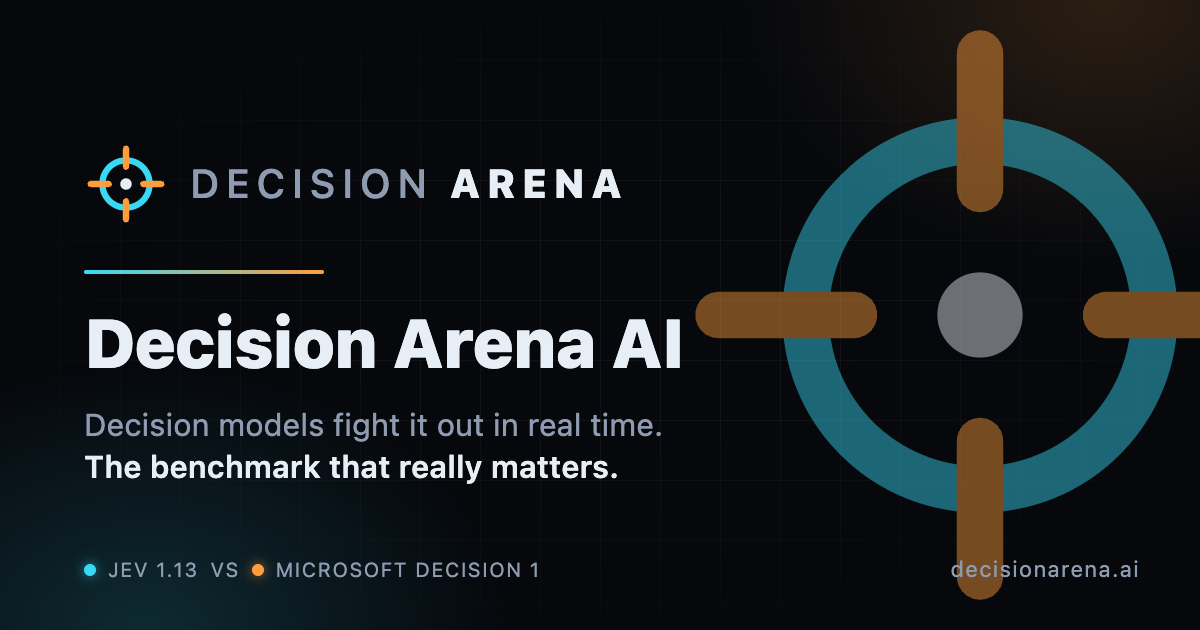
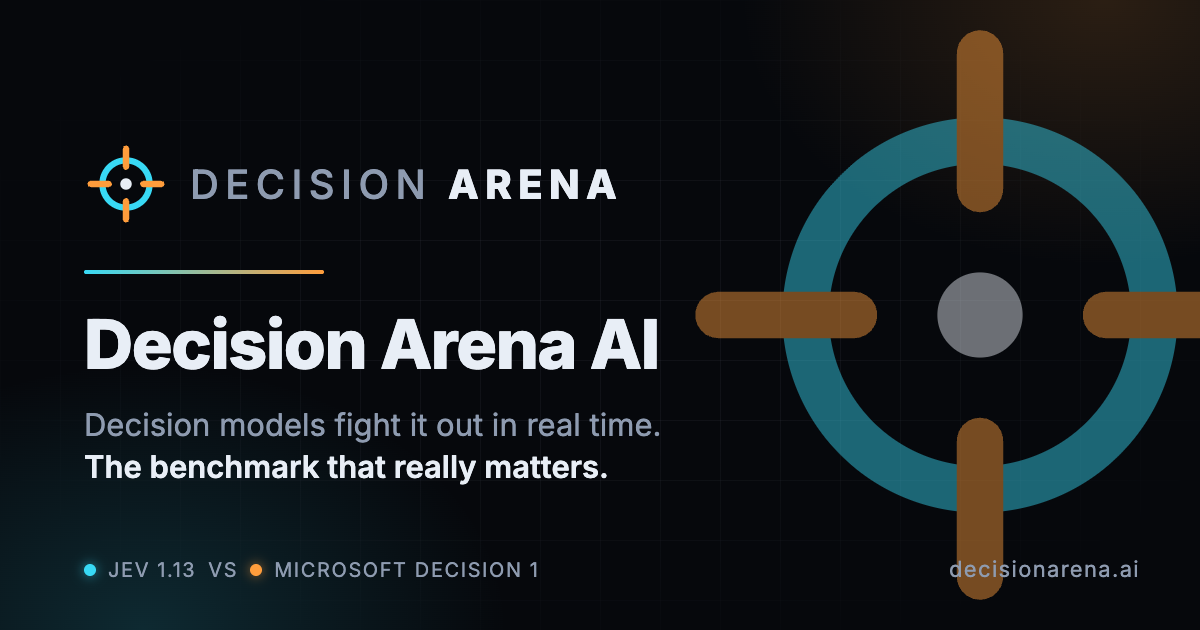
Add MIT license; bundle Inter (OFL) for site, canvas and share image; re-render og-image with Inter

diff --git a/scripts/og/og.html b/scripts/og/og.html
@@ -1,7 +1,8 @@
-<!doctype html><html><head><meta charset="utf-8"><style>
+<!doctype html><html><head><meta charset="utf-8"><style>@font-face{font-family:"Inter Variable";font-style:normal;font-weight:100 900;font-display:block;src:url("../../node_modules/@fontsource-variable/inter/files/inter-latin-wght-normal.woff2") format("woff2-variations")}
+
 html,body{margin:0}
 body{width:1200px;height:630px;overflow:hidden;position:relative;background:#06080c;color:#e8eef6;
-font-family:Inter,"SF Pro Text",ui-sans-serif,system-ui,-apple-system,"Segoe UI",Roboto,sans-serif}
+font-family:"Inter Variable",sans-serif}
 .glow{position:absolute;inset:0;background:radial-gradient(520px 380px at 12% 100%,rgba(56,217,245,.16),transparent 70%),radial-gradient(520px 380px at 92% 0%,rgba(255,157,60,.15),transparent 70%)}
 .grid{position:absolute;inset:0;background-image:linear-gradient(rgba(142,155,176,.07) 1px,transparent 1px),linear-gradient(90deg,rgba(142,155,176,.07) 1px,transparent 1px);background-size:60px 60px;
 -webkit-mask-image:radial-gradient(ellipse at 50% 50%,#000 30%,transparent 80%)}

diff --git a/scripts/og/render.ts b/scripts/og/render.ts
@@ -9,6 +9,9 @@ const root = resolve(import.meta.dirname, "../..");
 const browser = await chromium.launch({ executablePath: "/Applications/Google Chrome.app/Contents/MacOS/Google Chrome" });
 const page = await browser.newPage({ viewport: { width: 1200, height: 630 } });
 await page.goto(pathToFileURL(resolve(root, "scripts/og/og.html")).href);
+await page.evaluate(() => document.fonts.ready);
+const fontOk = await page.evaluate(() => document.fonts.check('800 68px "Inter Variable"'));
+if (!fontOk) throw new Error("Inter Variable did not load; refusing to render with a fallback font");
 await page.screenshot({ path: resolve(root, "public/og-image.png"), clip: { x: 0, y: 0, width: 1200, height: 630 } });
 const svg = (await import("node:fs")).readFileSync(resolve(root, "public/favicon.svg"), "utf8");
 for (const [name, size, pad] of [["favicon-32.png", 32, 0], ["apple-touch-icon.png", 180, 1]] as const) {

diff --git a/src/viewer/arena/render.ts b/src/viewer/arena/render.ts
@@ -9,7 +9,7 @@ import { rgba, type TeamColor } from "../lib/theme.ts";
 export const MARGIN_M = 1.25;
 export const VIEW_ASPECT = (ARENA_W + 2 * MARGIN_M) / (ARENA_H + 2 * MARGIN_M);
 
-const UI_FONT = `Inter, "SF Pro Text", ui-sans-serif, system-ui, -apple-system, "Segoe UI", sans-serif`;
+const UI_FONT = `"Inter Variable", Inter, ui-sans-serif, system-ui, -apple-system, "Segoe UI", sans-serif`;
 const MONO_FONT = `"JetBrains Mono", "SF Mono", ui-monospace, Menlo, Consolas, monospace`;
 
 export type View = { w: number; h: number; dpr: number; s: number; ox: number; oy: number };

diff --git a/src/viewer/styles.css b/src/viewer/styles.css
@@ -18,7 +18,7 @@
   --danger: #ff4d5e;
   --ok: #4ade80;
   --accent: #8cc8ff;
-  --font: Inter, "SF Pro Text", ui-sans-serif, system-ui, -apple-system, "Segoe UI", Roboto, sans-serif;
+  --font: "Inter Variable", Inter, ui-sans-serif, system-ui, -apple-system, "Segoe UI", Roboto, sans-serif;
   --mono: "JetBrains Mono", "SF Mono", ui-monospace, Menlo, Consolas, monospace;
   --ease: cubic-bezier(0.2, 0.8, 0.2, 1);
   --spring: cubic-bezier(0.34, 1.56, 0.64, 1);

diff --git a/src/viewer/main.tsx b/src/viewer/main.tsx
@@ -1,6 +1,7 @@
 import { StrictMode } from "react";
 import { createRoot } from "react-dom/client";
 import { App } from "./App.tsx";
+import "@fontsource-variable/inter/wght.css";
 import "./styles.css";
 
 createRoot(document.getElementById("root")!).render(

diff --git a/README.md b/README.md
@@ -54,3 +54,8 @@ One-time setup on the Cloudflare account (the D1 id is already in `wrangler.json
 10. Verify: open `https://decisionarena.ai/api/status`, then `pnpm live:smoke --base https://decisionarena.ai`.
 
 Later deploys are step 8 (if the benchmark changed) and step 9. A deploy restarts Durable Objects and drops matches in progress, so deploy when `/api/status` shows `liveMatches: 0`. `MAX_CONCURRENT`, `MAX_QUEUE` and `BUDGET_USD` are `vars` in `wrangler.jsonc`.
+
+## License
+
+Code: [MIT](LICENSE) © 2026 Simplify Studios LLC. The bundled Inter typeface is under the SIL Open Font License 1.1 (via `@fontsource-variable/inter`).
+Jev, TypeSafe, Microsoft and OpenRouter are trademarks of their respective owners. This project is independent and not affiliated with or endorsed by them.
